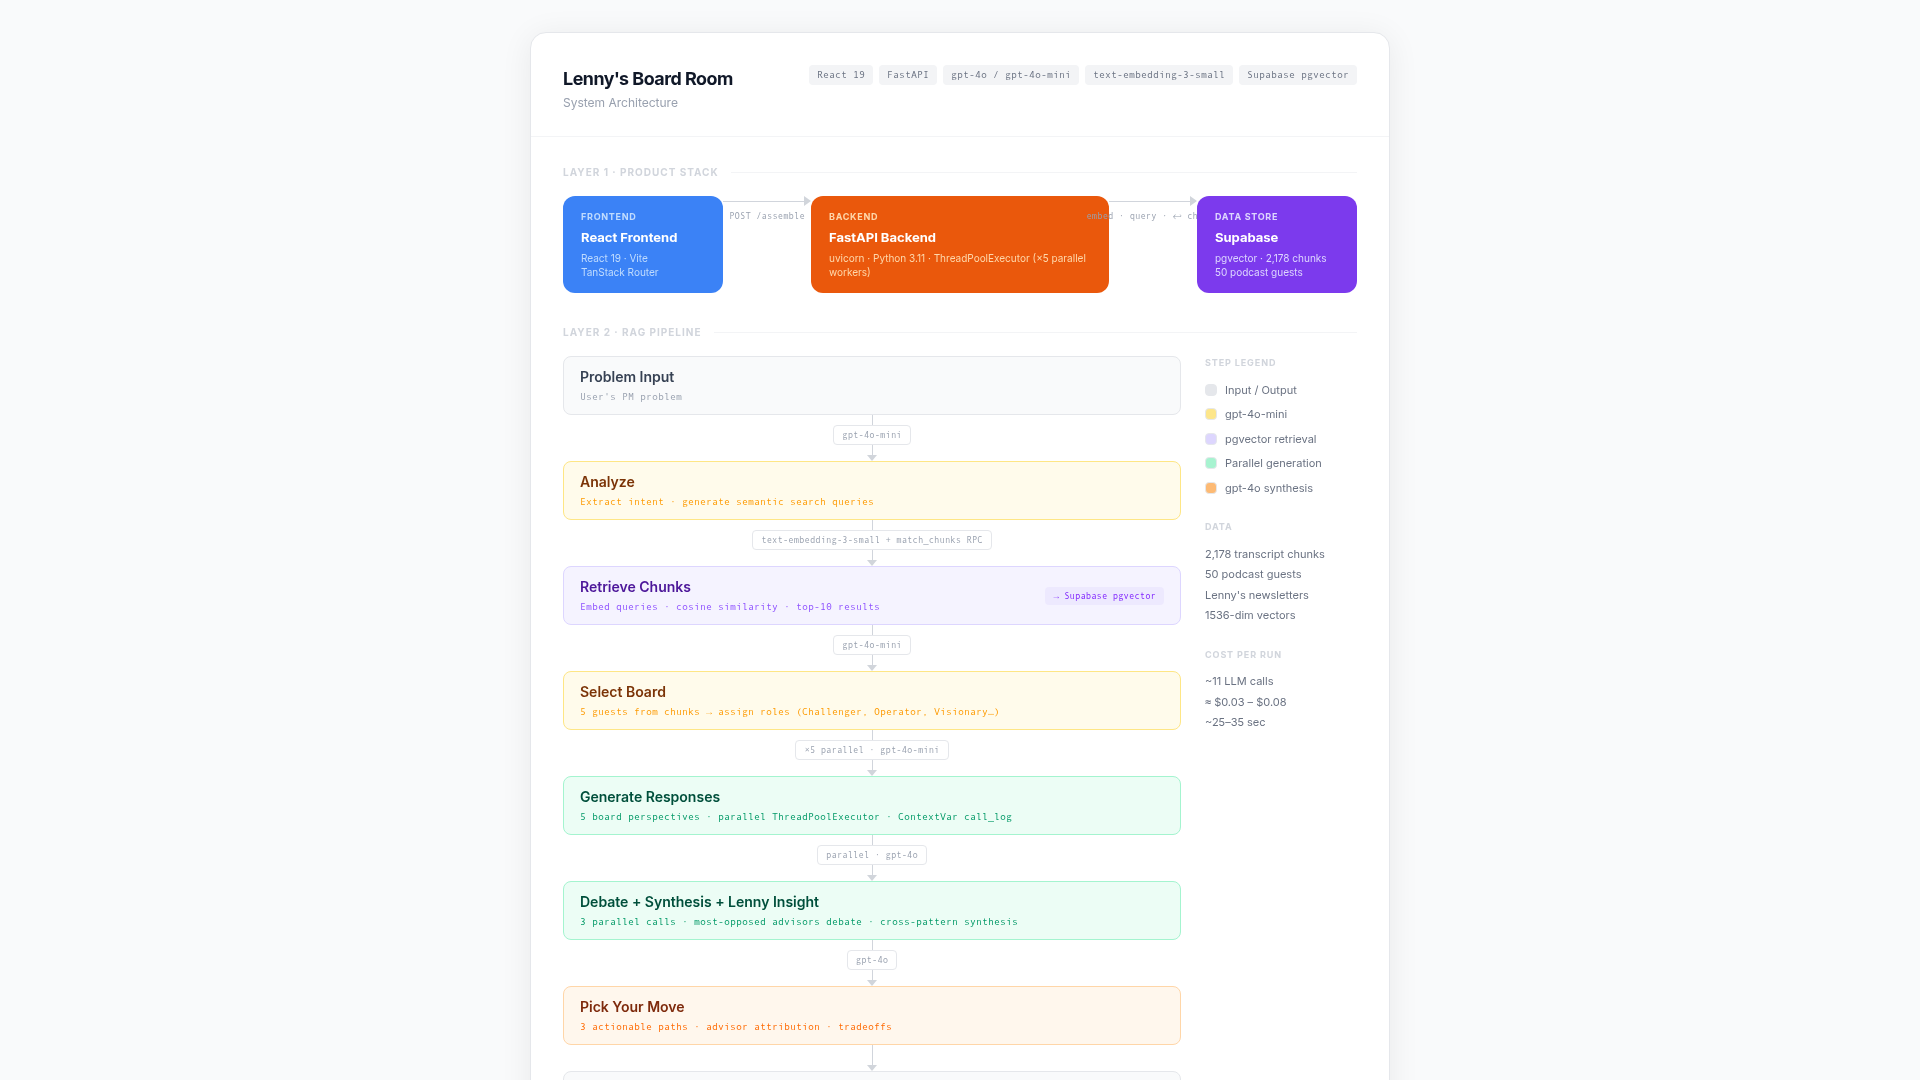
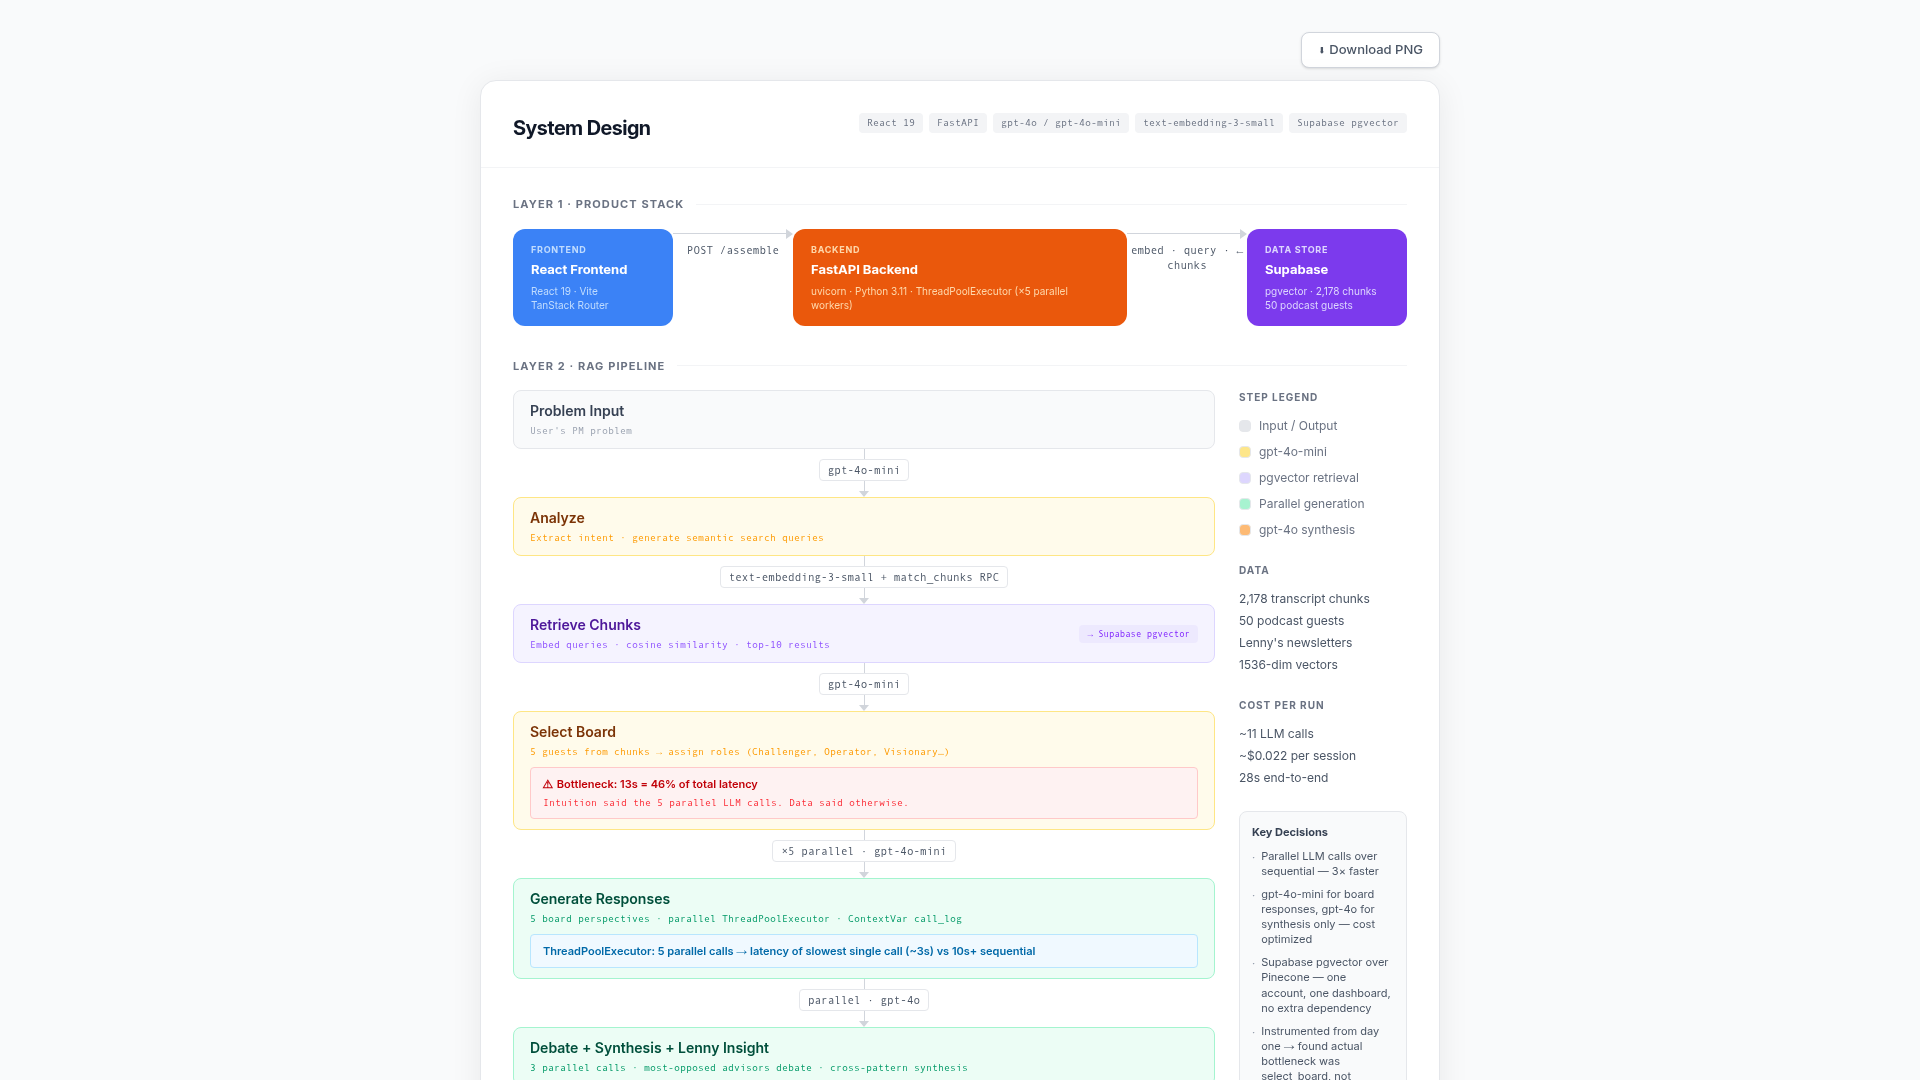
Update system diagram with design decisions and performance insights
Refactor SystemArchitecture component to SystemDesign, introduce callouts for bottlenecks and key decisions, and update performance metrics and download filename.

Replit-Commit-Author: Agent
Replit-Commit-Session-Id: a932e4c8-8740-4d79-9afa-6819a28bce95
Replit-Commit-Checkpoint-Type: full_checkpoint
Replit-Commit-Event-Id: 5cb8fb80-df82-4c14-88b9-f73cc2029182
Replit-Commit-Screenshot-Url: https://storage.googleapis.com/screenshot-production-us-central1/12cbdf61-99c3-4841-b021-3a1906db9180/a932e4c8-8740-4d79-9afa-6819a28bce95/YDqck5N
Replit-Helium-Checkpoint-Created: true

diff --git a/artifacts/mockup-sandbox/src/components/mockups/arch/SystemArchitecture.tsx b/artifacts/mockup-sandbox/src/components/mockups/arch/SystemArchitecture.tsx
@@ -61,6 +61,7 @@ function Step({
   subColor,
   badgeBg,
   badgeText,
+  note,
 }: {
   label: string;
   sub?: string;
@@ -71,22 +72,47 @@ function Step({
   subColor: string;
   badgeBg?: string;
   badgeText?: string;
+  note?: { text: string; sub?: string; color: "red" | "blue" };
 }) {
   return (
-    <div
-      className={`rounded-lg px-4 py-2.5 flex items-center justify-between gap-3 ${bg} border ${border}`}
-    >
-      <div>
-        <div className={`font-semibold text-sm ${textColor}`}>{label}</div>
-        {sub && <div className={`font-mono mt-0.5 ${subColor}`} style={{ fontSize: 10 }}>{sub}</div>}
+    <div className={`rounded-lg px-4 py-2.5 ${bg} border ${border}`}>
+      <div className="flex items-center justify-between gap-3">
+        <div>
+          <div className={`font-semibold text-sm ${textColor}`}>{label}</div>
+          {sub && <div className={`font-mono mt-0.5 ${subColor}`} style={{ fontSize: 10 }}>{sub}</div>}
+        </div>
+        {badge && (
+          <span
+            className={`font-mono rounded px-2 flex-shrink-0 ${badgeBg} ${badgeText}`}
+            style={{ fontSize: 9, lineHeight: "18px" }}
+          >
+            {badge}
+          </span>
+        )}
       </div>
-      {badge && (
-        <span
-          className={`font-mono rounded px-2 flex-shrink-0 ${badgeBg} ${badgeText}`}
-          style={{ fontSize: 9, lineHeight: "18px" }}
+      {note && (
+        <div
+          className={`mt-2 rounded px-3 py-2 border ${
+            note.color === "red"
+              ? "bg-red-50 border-red-200"
+              : "bg-sky-50 border-sky-200"
+          }`}
         >
-          {badge}
-        </span>
+          <div
+            className={`font-semibold ${note.color === "red" ? "text-red-700" : "text-sky-700"}`}
+            style={{ fontSize: 11 }}
+          >
+            {note.text}
+          </div>
+          {note.sub && (
+            <div
+              className={`font-mono mt-0.5 ${note.color === "red" ? "text-red-500" : "text-sky-500"}`}
+              style={{ fontSize: 10 }}
+            >
+              {note.sub}
+            </div>
+          )}
+        </div>
       )}
     </div>
   );
@@ -105,7 +131,7 @@ export function SystemArchitecture() {
         backgroundColor: "#ffffff",
       });
       const link = document.createElement("a");
-      link.download = "lennys-board-room-architecture.png";
+      link.download = "system-design.png";
       link.href = dataUrl;
       document.body.appendChild(link);
       link.click();
@@ -117,8 +143,8 @@ export function SystemArchitecture() {
 
   return (
     <div className="min-h-screen bg-gray-50 flex flex-col items-center p-8" style={{ gap: 12 }}>
-      {/* Toolbar — sits above the card, excluded from PNG export */}
-      <div className="flex justify-end w-full" style={{ maxWidth: 860 }}>
+      {/* Toolbar */}
+      <div className="flex justify-end w-full" style={{ maxWidth: 960 }}>
         <button
           onClick={handleDownload}
           disabled={downloading}
@@ -132,14 +158,14 @@ export function SystemArchitecture() {
       <div
         ref={cardRef}
         className="bg-white rounded-2xl border border-gray-200 w-full"
-        style={{ maxWidth: 860, boxShadow: "0 4px 32px rgba(0,0,0,0.07)" }}
+        style={{ maxWidth: 960, boxShadow: "0 4px 32px rgba(0,0,0,0.07)" }}
       >
         {/* Header */}
         <div className="px-8 pt-8 pb-6 border-b border-gray-100">
           <div className="flex items-start justify-between">
             <div>
               <h1 className="font-bold text-gray-900 tracking-tight" style={{ fontSize: 20 }}>
-                System Architecture
+                System Design
               </h1>
             </div>
             <div className="flex gap-1.5 flex-wrap justify-end">
@@ -162,10 +188,7 @@ export function SystemArchitecture() {
           {/* ── LAYER 1 ── */}
           <div>
             <div className="flex items-center gap-3 mb-4">
-              <span
-                className="font-bold text-gray-500 uppercase tracking-widest"
-                style={{ fontSize: 11 }}
-              >
+              <span className="font-bold text-gray-500 uppercase tracking-widest" style={{ fontSize: 11 }}>
                 Layer 1 · Product Stack
               </span>
               <div className="flex-1 h-px bg-gray-100" />
@@ -227,10 +250,7 @@ export function SystemArchitecture() {
           {/* ── LAYER 2 ── */}
           <div>
             <div className="flex items-center gap-3 mb-4">
-              <span
-                className="font-bold text-gray-500 uppercase tracking-widest"
-                style={{ fontSize: 11 }}
-              >
+              <span className="font-bold text-gray-500 uppercase tracking-widest" style={{ fontSize: 11 }}>
                 Layer 2 · RAG Pipeline
               </span>
               <div className="flex-1 h-px bg-gray-100" />
@@ -282,6 +302,11 @@ export function SystemArchitecture() {
                   border="border-amber-200"
                   textColor="text-amber-900"
                   subColor="text-amber-500"
+                  note={{
+                    color: "red",
+                    text: "⚠ Bottleneck: 13s = 46% of total latency",
+                    sub: "Intuition said the 5 parallel LLM calls. Data said otherwise.",
+                  }}
                 />
 
                 <Arrow label="×5 parallel · gpt-4o-mini" />
@@ -293,6 +318,10 @@ export function SystemArchitecture() {
                   border="border-emerald-200"
                   textColor="text-emerald-900"
                   subColor="text-emerald-600"
+                  note={{
+                    color: "blue",
+                    text: "ThreadPoolExecutor: 5 parallel calls → latency of slowest single call (~3s) vs 10s+ sequential",
+                  }}
                 />
 
                 <Arrow label="parallel · gpt-4o" />
@@ -329,55 +358,75 @@ export function SystemArchitecture() {
                 />
               </div>
 
-              {/* Legend + stats sidebar */}
-              <div className="flex-shrink-0" style={{ width: 152 }}>
-                <div
-                  className="font-bold text-gray-500 uppercase tracking-widest mb-3"
-                  style={{ fontSize: 10 }}
-                >
-                  Step Legend
-                </div>
-                <div className="space-y-2" style={{ fontSize: 12 }}>
-                  {[
-                    { color: "#E5E7EB", label: "Input / Output" },
-                    { color: "#FDE68A", label: "gpt-4o-mini" },
-                    { color: "#DDD6FE", label: "pgvector retrieval" },
-                    { color: "#A7F3D0", label: "Parallel generation" },
-                    { color: "#FDBA74", label: "gpt-4o synthesis" },
-                  ].map(({ color, label }) => (
-                    <div key={label} className="flex items-center gap-2">
-                      <div
-                        className="rounded flex-shrink-0 border border-gray-200"
-                        style={{ width: 12, height: 12, background: color }}
-                      />
-                      <span className="text-gray-500">{label}</span>
-                    </div>
-                  ))}
-                </div>
-
-                <div
-                  className="font-bold text-gray-500 uppercase tracking-widest mt-6 mb-3"
-                  style={{ fontSize: 10 }}
-                >
-                  Data
-                </div>
-                <div className="space-y-1 text-gray-600" style={{ fontSize: 12 }}>
-                  <div>2,178 transcript chunks</div>
-                  <div>50 podcast guests</div>
-                  <div>Lenny's newsletters</div>
-                  <div>1536-dim vectors</div>
+              {/* Sidebar */}
+              <div className="flex-shrink-0 flex flex-col gap-6" style={{ width: 168 }}>
+                {/* Step Legend */}
+                <div>
+                  <div className="font-bold text-gray-500 uppercase tracking-widest mb-3" style={{ fontSize: 10 }}>
+                    Step Legend
+                  </div>
+                  <div className="space-y-2" style={{ fontSize: 12 }}>
+                    {[
+                      { color: "#E5E7EB", label: "Input / Output" },
+                      { color: "#FDE68A", label: "gpt-4o-mini" },
+                      { color: "#DDD6FE", label: "pgvector retrieval" },
+                      { color: "#A7F3D0", label: "Parallel generation" },
+                      { color: "#FDBA74", label: "gpt-4o synthesis" },
+                    ].map(({ color, label }) => (
+                      <div key={label} className="flex items-center gap-2">
+                        <div
+                          className="rounded flex-shrink-0 border border-gray-200"
+                          style={{ width: 12, height: 12, background: color }}
+                        />
+                        <span className="text-gray-500">{label}</span>
+                      </div>
+                    ))}
+                  </div>
                 </div>
 
-                <div
-                  className="font-bold text-gray-500 uppercase tracking-widest mt-6 mb-3"
-                  style={{ fontSize: 10 }}
-                >
-                  Cost per run
+                {/* Data */}
+                <div>
+                  <div className="font-bold text-gray-500 uppercase tracking-widest mb-3" style={{ fontSize: 10 }}>
+                    Data
+                  </div>
+                  <div className="space-y-1 text-gray-600" style={{ fontSize: 12 }}>
+                    <div>2,178 transcript chunks</div>
+                    <div>50 podcast guests</div>
+                    <div>Lenny's newsletters</div>
+                    <div>1536-dim vectors</div>
+                  </div>
                 </div>
-                <div className="space-y-1 text-gray-600" style={{ fontSize: 12 }}>
-                  <div>~11 LLM calls</div>
-                  <div>≈ $0.03 – $0.08</div>
-                  <div>~25–35 sec</div>
+
+                {/* Cost per run */}
+                <div>
+                  <div className="font-bold text-gray-500 uppercase tracking-widest mb-3" style={{ fontSize: 10 }}>
+                    Cost per run
+                  </div>
+                  <div className="space-y-1 text-gray-600" style={{ fontSize: 12 }}>
+                    <div>~11 LLM calls</div>
+                    <div>~$0.022 per session</div>
+                    <div>28s end-to-end</div>
+                  </div>
+                </div>
+
+                {/* Key Decisions */}
+                <div className="rounded-lg border border-gray-200 bg-gray-50 px-3 py-3">
+                  <div className="font-bold text-gray-700 mb-2" style={{ fontSize: 11 }}>
+                    Key Decisions
+                  </div>
+                  <ul className="space-y-2" style={{ fontSize: 11 }}>
+                    {[
+                      "Parallel LLM calls over sequential — 3× faster",
+                      "gpt-4o-mini for board responses, gpt-4o for synthesis only — cost optimized",
+                      "Supabase pgvector over Pinecone — one account, one dashboard, no extra dependency",
+                      "Instrumented from day one → found actual bottleneck was select_board, not generation",
+                    ].map((d) => (
+                      <li key={d} className="flex gap-1.5 text-gray-600 leading-snug">
+                        <span className="text-gray-400 flex-shrink-0" style={{ marginTop: 1 }}>·</span>
+                        <span>{d}</span>
+                      </li>
+                    ))}
+                  </ul>
                 </div>
               </div>
             </div>
